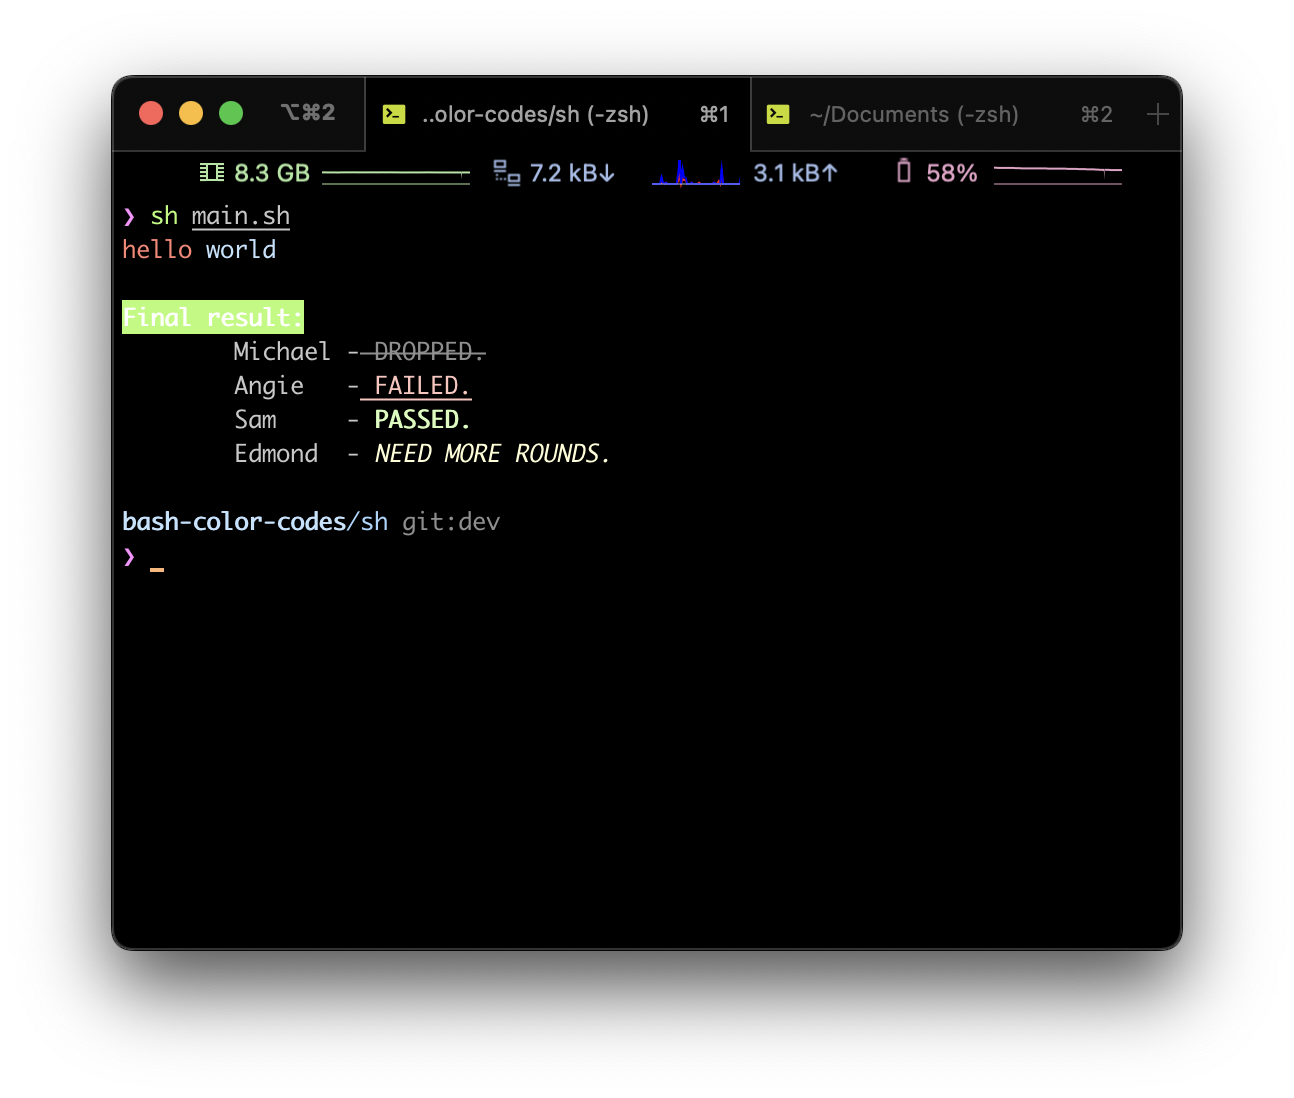
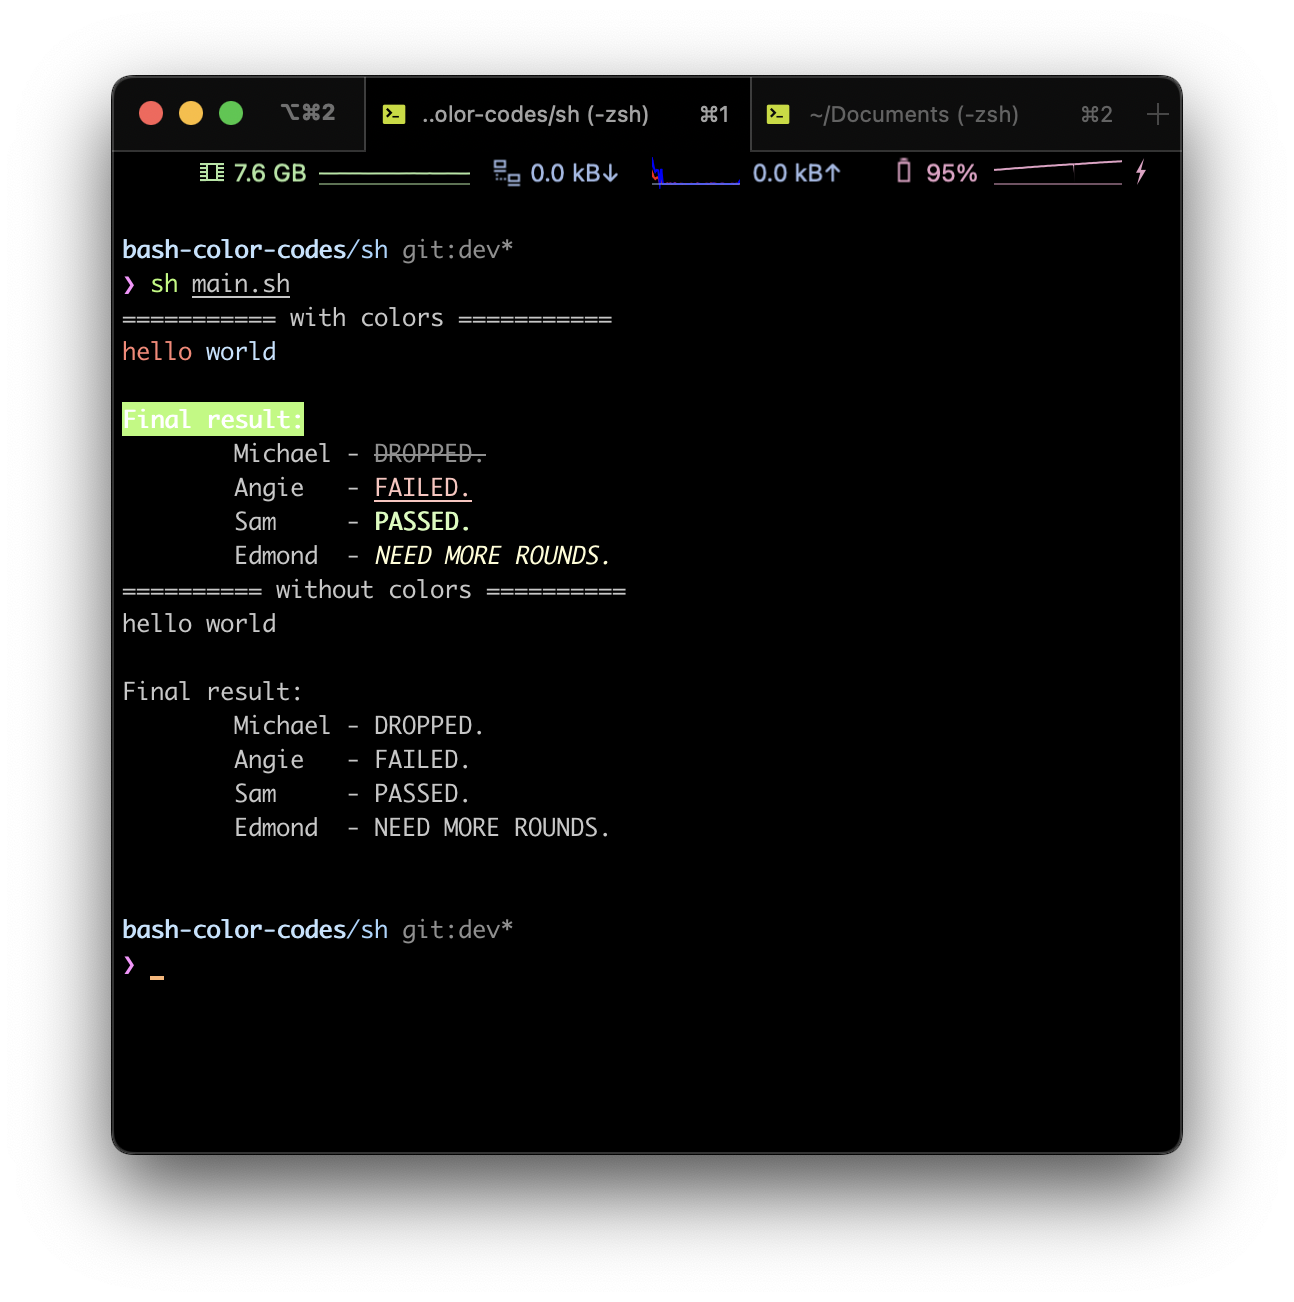
add code + explanation

diff --git a/py/main.py b/py/main.py
@@ -1,8 +1,21 @@
-from .bash_colors import BashColors
+import bash_colors
 
 
 def do_print() -> None:
-    colors = []
+    colors = f"""
+{bash_colors.BashColors.DARK_RED}hello {bash_colors.BashColors.LIGHT_BLUE}world{bash_colors.BashColors.RESET}
+
+{bash_colors.BashColors.PAINT_GREEN_BOLD}Final result:{bash_colors.BashColors.RESET}
+\tMichael - {bash_colors.BashColors.LIGHT_GRAY_STRIKE}DROPPED.{bash_colors.BashColors.RESET}
+\tAngie   - {bash_colors.BashColors.LIGHT_RED_UNDERLINE}FAILED.{bash_colors.BashColors.RESET}
+\tSam     - {bash_colors.BashColors.LIGHT_GREEN_BOLD}PASSED.{bash_colors.BashColors.RESET}
+\tEdmond  - {bash_colors.BashColors.LIGHT_ORANGE_ITALIC}NEED MORE ROUNDS.{bash_colors.BashColors.RESET}
+"""
+    print("=========== with colors ===========")
+    print(colors)
+
+    print("========== without colors ==========")
+    print(bash_colors.BashColors.remove_bash_color_code(colors))
 
 
 if __name__ == "__main__":

diff --git a/py/bash_colors.py b/py/bash_colors.py
@@ -1,3 +1,6 @@
+import re
+
+
 class BashColors:
     RESET = "\033[0m"
 
@@ -135,3 +138,6 @@ class BashColors:
     LIGHT_PURPLE_STRIKE = "\033[9;95m"
     LIGHT_CYAN_STRIKE = "\033[9;96m"
     LIGHT_WHITE_STRIKE = "\033[9;97m"
+
+    def remove_bash_color_code(text: str) -> str:
+        return re.sub(r"\033\[[\d;]+m", "", text)

diff --git a/README.md b/README.md
@@ -1,0 +1,38 @@
+# Bash color codes
+
+## about
+
+- This repo contains sample Bash color codes for Python and Bash script.
+- It describes how to display texts in colors in Terminal (Bash).
+- This has been written to support blogs below.
+
+## blog related
+
+- [EN]
+- [TH]
+- [Medium]
+
+## How to run
+
+### Bash script
+
+```bash
+cd sh
+sh main.sh
+```
+
+![sh](assets/sample_run_bash.png)
+
+### Python
+
+```bash
+cd py
+python3 main.py
+```
+
+![py](assets/sample_run_python.png)
+
+## Credits
+
+1. How do I print colored text to the terminal? <https://stackoverflow.com/questions/287871/how-do-i-print-colored-text-to-the-terminal>
+2. Replace non-printable characters in perl and sed <https://unix.stackexchange.com/a/201753>
